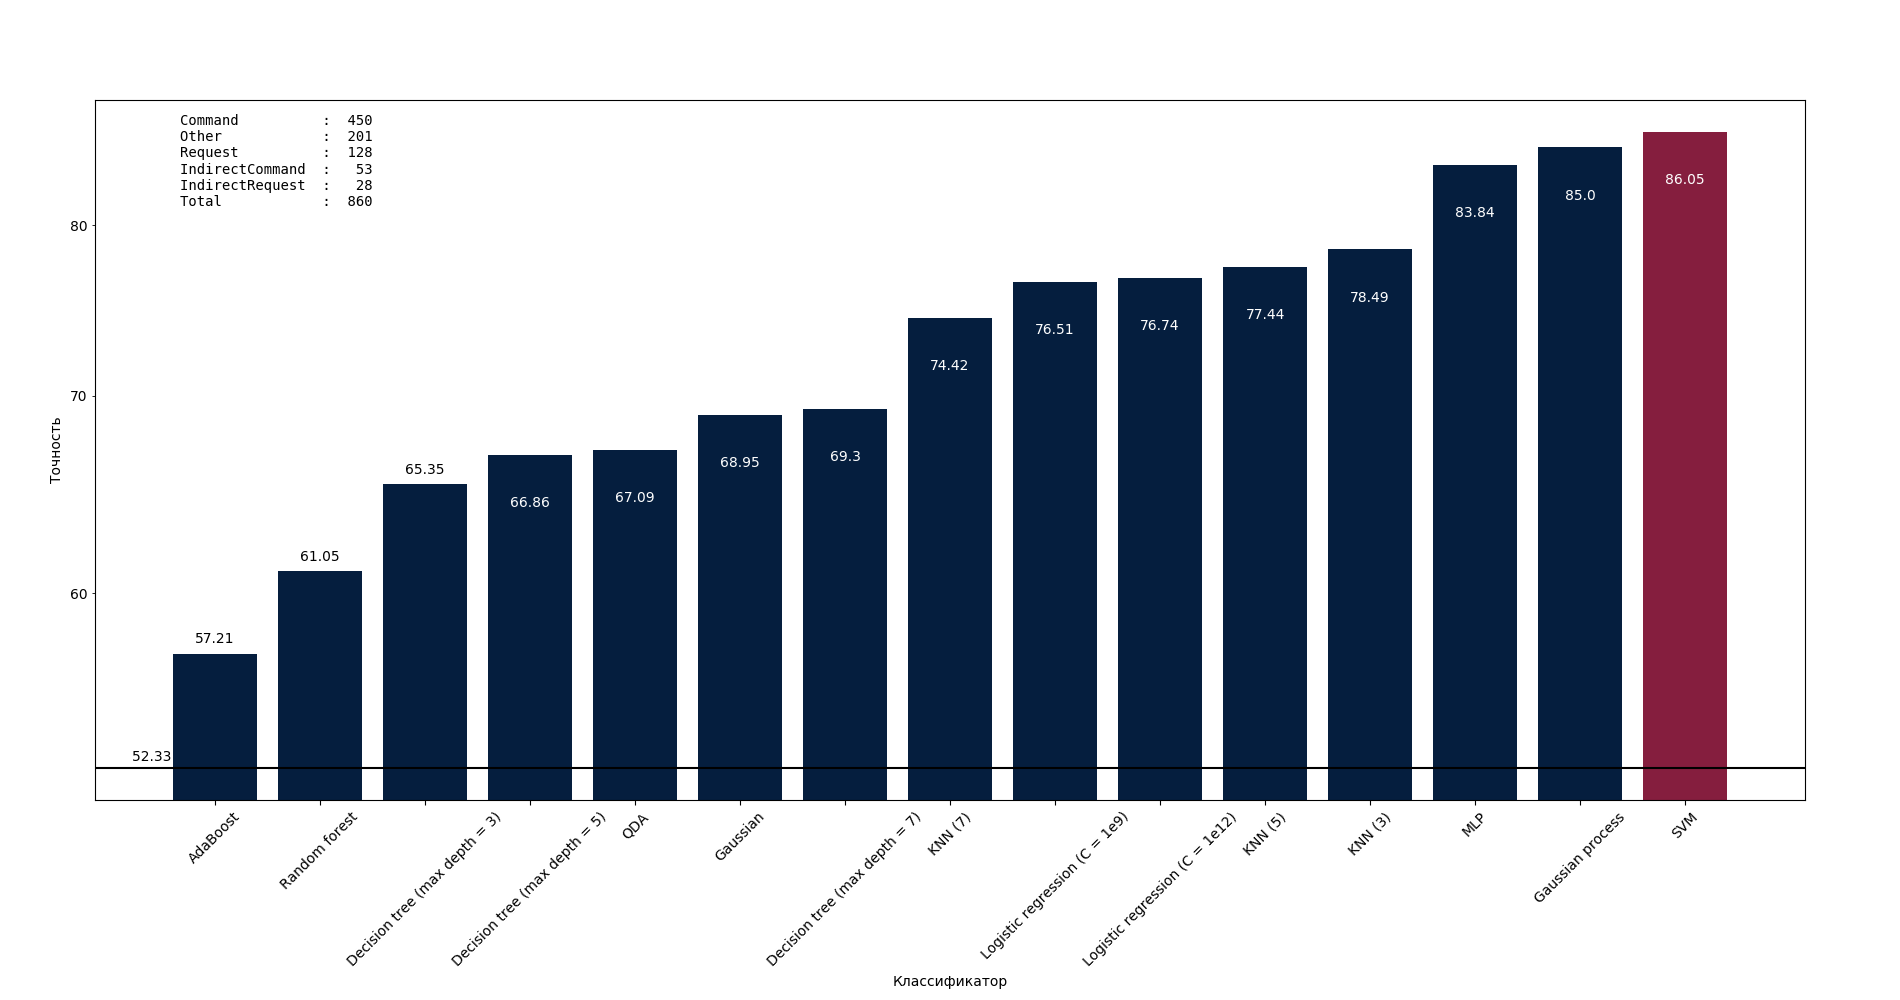
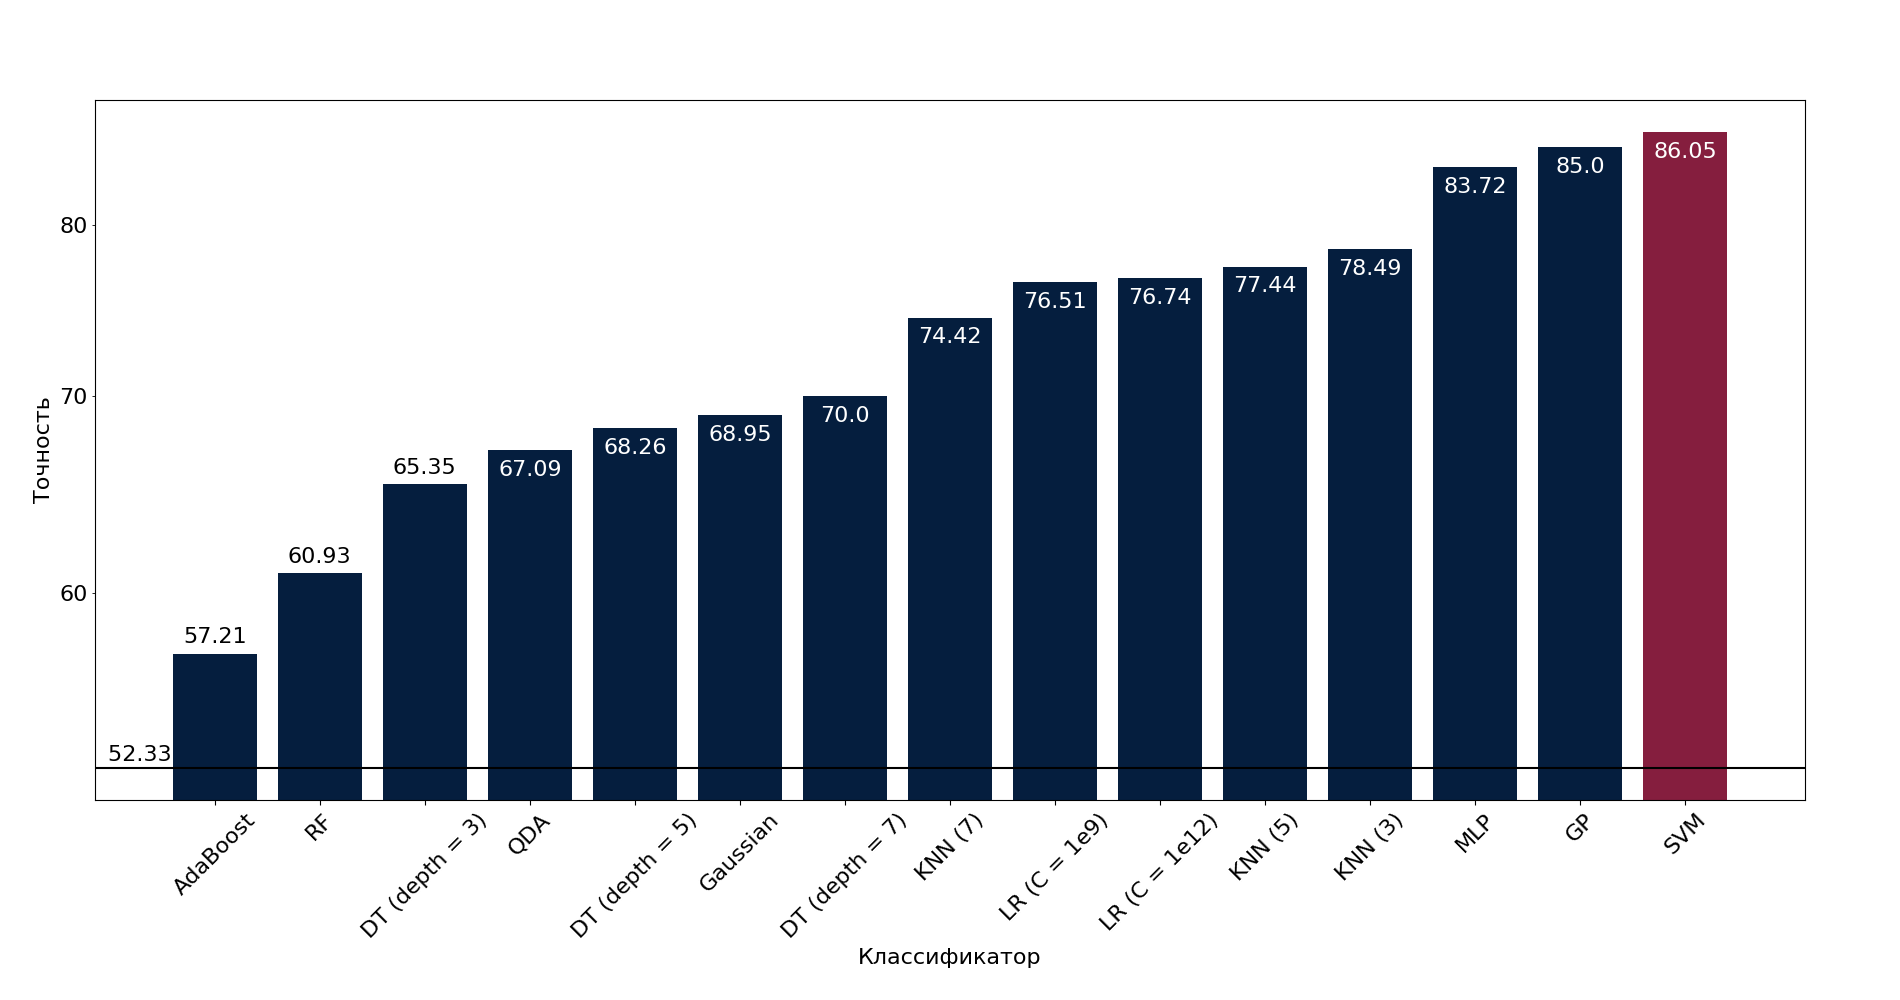
Updated images

diff --git a/scripts/w2v/test.py b/scripts/w2v/test.py
@@ -31,7 +31,7 @@ BRIGHT_COLOR = "#851e3e"
 
 DEFAULT_MODEL_FILE_NAME = "test.txt"
 
-plt.rcParams.update({'font.size': 22})
+plt.rcParams.update({'font.size': 16})
 fig, axs = plt.subplots(1)
 
 parser = argparse.ArgumentParser()
@@ -101,21 +101,39 @@ def classify(df, classifier, pieces=config['cv-folds']):
 if not args.tf:
 	classifiers = {
 		"SVM": SVC(gamma='scale', decision_function_shape='ovo'),
-		"Logistic regression (C = 1e9)": LogisticRegression(n_jobs=1, C=1e9),
-		"Logistic regression (C = 1e12)": LogisticRegression(n_jobs=1, C=1e12),
+		"LR (C = 1e9)": LogisticRegression(n_jobs=1, C=1e9),
+		"LR (C = 1e12)": LogisticRegression(n_jobs=1, C=1e12),
 		"KNN (3)": KNeighborsClassifier(3),
 		"KNN (5)": KNeighborsClassifier(5),
 		"KNN (7)": KNeighborsClassifier(7),
-	    "Gaussian process": GaussianProcessClassifier(1.0 * RBF(1.0)),
-	    "Decision tree (max depth = 3)": DecisionTreeClassifier(max_depth=3),
-	    "Decision tree (max depth = 5)": DecisionTreeClassifier(max_depth=5),
-	    "Decision tree (max depth = 7)": DecisionTreeClassifier(max_depth=7),
-	    "Random forest": RandomForestClassifier(max_depth=5, n_estimators=10, max_features=1),
+	    "GP": GaussianProcessClassifier(1.0 * RBF(1.0)),
+	    "DT (depth = 3)": DecisionTreeClassifier(max_depth=3),
+	    "DT (depth = 5)": DecisionTreeClassifier(max_depth=5),
+	    "DT (depth = 7)": DecisionTreeClassifier(max_depth=7),
+	    "RF": RandomForestClassifier(max_depth=5, n_estimators=10, max_features=1),
 	    "MLP": MLPClassifier(alpha=1, max_iter=1000),
 	    "AdaBoost": AdaBoostClassifier(),
 	    "Gaussian": GaussianNB(),
 	    "QDA": QuadraticDiscriminantAnalysis()
 	}
+
+	# classifiers = {
+	# 	"SVM": SVC(gamma='scale', decision_function_shape='ovo'),
+	# 	"Logistic regression (C = 1e9)": LogisticRegression(n_jobs=1, C=1e9),
+	# 	"Logistic regression (C = 1e12)": LogisticRegression(n_jobs=1, C=1e12),
+	# 	"KNN (3)": KNeighborsClassifier(3),
+	# 	"KNN (5)": KNeighborsClassifier(5),
+	# 	"KNN (7)": KNeighborsClassifier(7),
+	#     "Gaussian process": GaussianProcessClassifier(1.0 * RBF(1.0)),
+	#     "Decision tree (depth = 3)": DecisionTreeClassifier(max_depth=3),
+	#     "Decision tree (depth = 5)": DecisionTreeClassifier(max_depth=5),
+	#     "Decision tree (depth = 7)": DecisionTreeClassifier(max_depth=7),
+	#     "Random forest": RandomForestClassifier(max_depth=5, n_estimators=10, max_features=1),
+	#     "MLP": MLPClassifier(alpha=1, max_iter=1000),
+	#     "AdaBoost": AdaBoostClassifier(),
+	#     "Gaussian": GaussianNB(),
+	#     "QDA": QuadraticDiscriminantAnalysis()
+	# }
 
 	results = {classifier: classify(df, classifiers[classifier]) for classifier in classifiers.keys()}
 
@@ -165,7 +183,7 @@ if not args.tf:
 	def draw_bar_labels(x, y, axis, threshold=2, round_precision=2):
 		smallest = sorted(y)[threshold]
 		for c, v in zip(x, y):
-			axis.text(c, v * 0.96 if v > smallest else v + 0.5, str(round(v, 2)), color='white' if v > smallest else 'black', horizontalalignment='center')
+			axis.text(c, v * 0.98 if v > smallest else v + 0.5, str(round(v, 2)), color='white' if v > smallest else 'black', horizontalalignment='center')
 
 	# create two sublots
 	fig, axs = plt.subplots(1)
@@ -177,14 +195,14 @@ if not args.tf:
 
 	type_counts = dict(df.type.value_counts())
 	type_counts['Total'] = int(np.sum(list(type_counts.values())))
-	axs.text(0.05, 0.98, '\n'.join([f"{type:17s}: {type_counts[type]:4d}" for type in type_counts.keys()]) + '\n'*5, horizontalalignment='left', verticalalignment='top', transform=axs.transAxes, family='monospace')
+	#axs.text(0.05, 0.98, '\n'.join([f"{type:17s}: {type_counts[type]:4d}" for type in type_counts.keys()]) + '\n'*5, horizontalalignment='left', verticalalignment='top', transform=axs.transAxes, family='monospace')
 	axs.bar(rdf.classifier, height=rdf.accuracy, color=[COMMON_COLOR if i < max_accuracy else BRIGHT_COLOR for i in accuracy], log = True)
 	# axs.set_title('Accuracy')
 	axs.set_xlabel('Классификатор')
 	axs.set_ylabel('Точность')
 	const_classifier_accuracy = 100*np.max(df.groupby('type').size())/(np.sum(df.groupby('type').size()))
 	axs.axhline(y=const_classifier_accuracy, color="black")
-	axs.text(classifiers[0], const_classifier_accuracy + 0.3, str(round(const_classifier_accuracy, 2)) + ' '*10, color='black', horizontalalignment='right')
+	axs.text(classifiers[0], const_classifier_accuracy + 0.3, str(round(const_classifier_accuracy, 2)) + ' '*6, color='black', horizontalalignment='right')
 	axs.yaxis.set_major_formatter(ScalarFormatter())
 	axs.yaxis.set_minor_formatter(ScalarFormatter())
 	for tick in axs.get_xticklabels():
